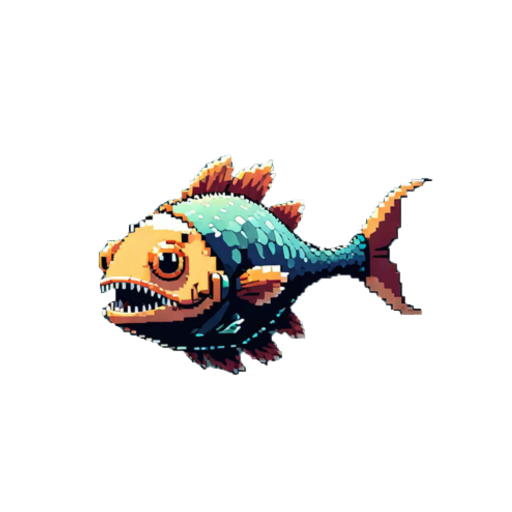
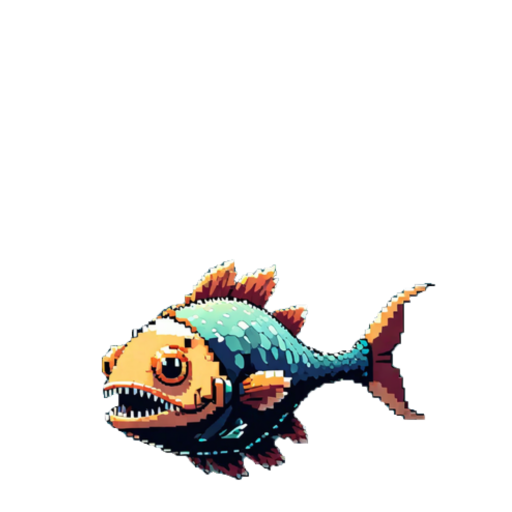
added a gibbing effect for the smaller monsters to avoid visual clutter, extended sprite culling system to more than explosions

Changed region(s): [[0.1875, 0.3125, 0.8438, 0.9375]]

diff --git a/Fate/GameEngine.js b/Fate/GameEngine.js
@@ -1537,10 +1537,15 @@ function updateGameObjects() {
                                     break;
                                 case 'seahorsebaby':
                                 case 'portal':
-                                case 'frog':
                                 case 'moon':
                                 case 'sun':
                                 case 'saturn':
+                                    break;
+                                case 'frog':
+                                case 'lizard':
+                                case 'jackalope':
+                                case 'piranha':
+                                    game.sprites.push({ id: 'gib-sprite', x: monster.x, y: monster.y, width: 512, height: 512, data: getTextureData({ id: 'gib-sprite', width: 512, height: 512 }), spawnTime: Date.now(), cullTime: 200 });
                                     break;
                                 case 'dinosauregg':
                                     game.monsterTotal++;
@@ -1654,7 +1659,7 @@ function updateGameObjects() {
     game.projectiles = game.projectiles.filter((_, idx) => !projectilesToRemove.has(idx));
     // Remove expired explosion sprites
     game.sprites = game.sprites.filter(sprite => {
-        if (sprite.id === 'explosion-sprite' && sprite.spawnTime) {
+        if (sprite.cullTime && sprite.spawnTime) {
             const elapsed = Date.now() - sprite.spawnTime;
             return elapsed < sprite.cullTime;
         }

diff --git a/Fate/Fate.html b/Fate/Fate.html
@@ -94,6 +94,7 @@
     <img id="battery-sprite" src="img\static\battery.png" style="display: none;">
     <img id="fern-sprite" src="img\static\fern.png" style="display: none;">
     <img id="obelisk-sprite" src="img\static\obelisk.png" style="display: none;">
+    <img id="gib-sprite" src="img\static\gib.png" style="display: none;">
     <!-- Weapon Sprites -->
     <img id="knife-sprite" src="img\weapons\knife.png" style="display: none;">
     <img id="gun-sprite" src="img\weapons\gun.png" style="display: none;">
